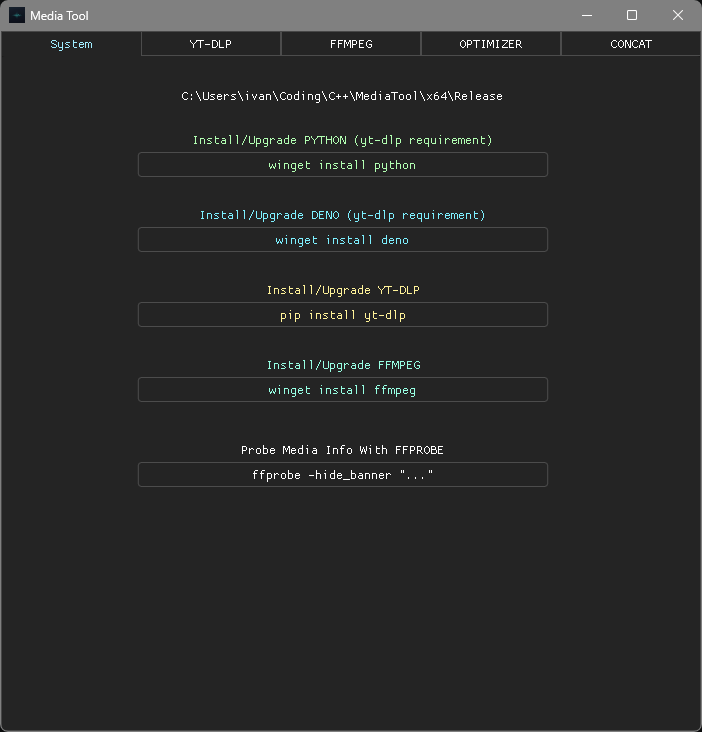
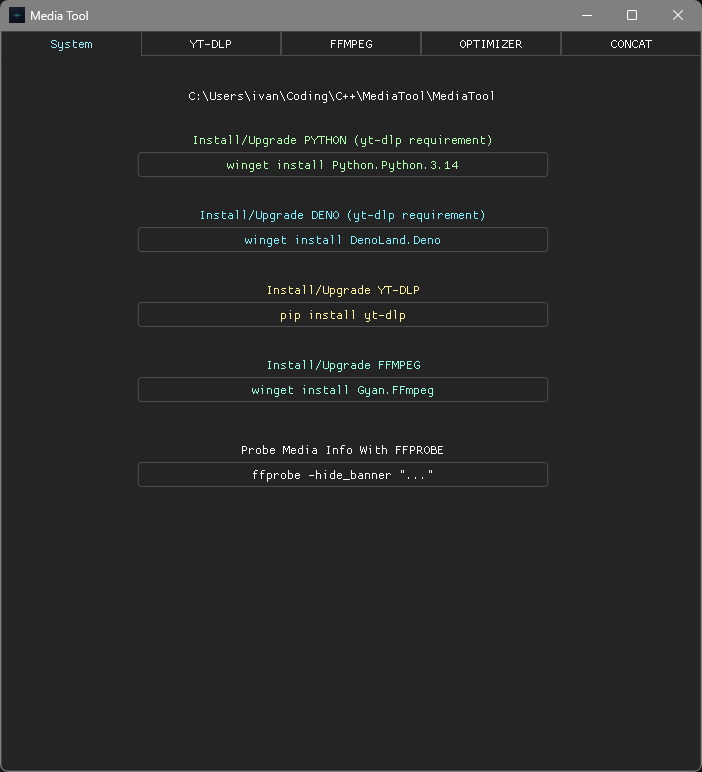
refactoring

diff --git a/MediaTool/source/system_section.cpp b/MediaTool/source/system_section.cpp
@@ -21,7 +21,7 @@ void mt::SystemSection::display()
     static constexpr std::string_view PYTHON_INSTALL_COMMAND = R"(winget install Python.Python.3.14)";
     static constexpr std::string_view DENO_INSTALL_COMMAND = R"(winget install DenoLand.Deno)";
     static constexpr std::string_view YTDLP_INSTALL_COMMAND = R"(pip install yt-dlp)";
-    static constexpr std::string_view FFMPEG_INSTALL_COMMAND = R"(winget install ffmpeg)";
+    static constexpr std::string_view FFMPEG_INSTALL_COMMAND = R"(winget install Gyan.FFmpeg)";
     static constexpr std::string_view FFPROBE_COMMAND = R"(ffprobe -hide_banner "...")";
 
     const ImVec2 default_button_size = { im::GetContentRegionAvail().x * .6f, 25.0f };